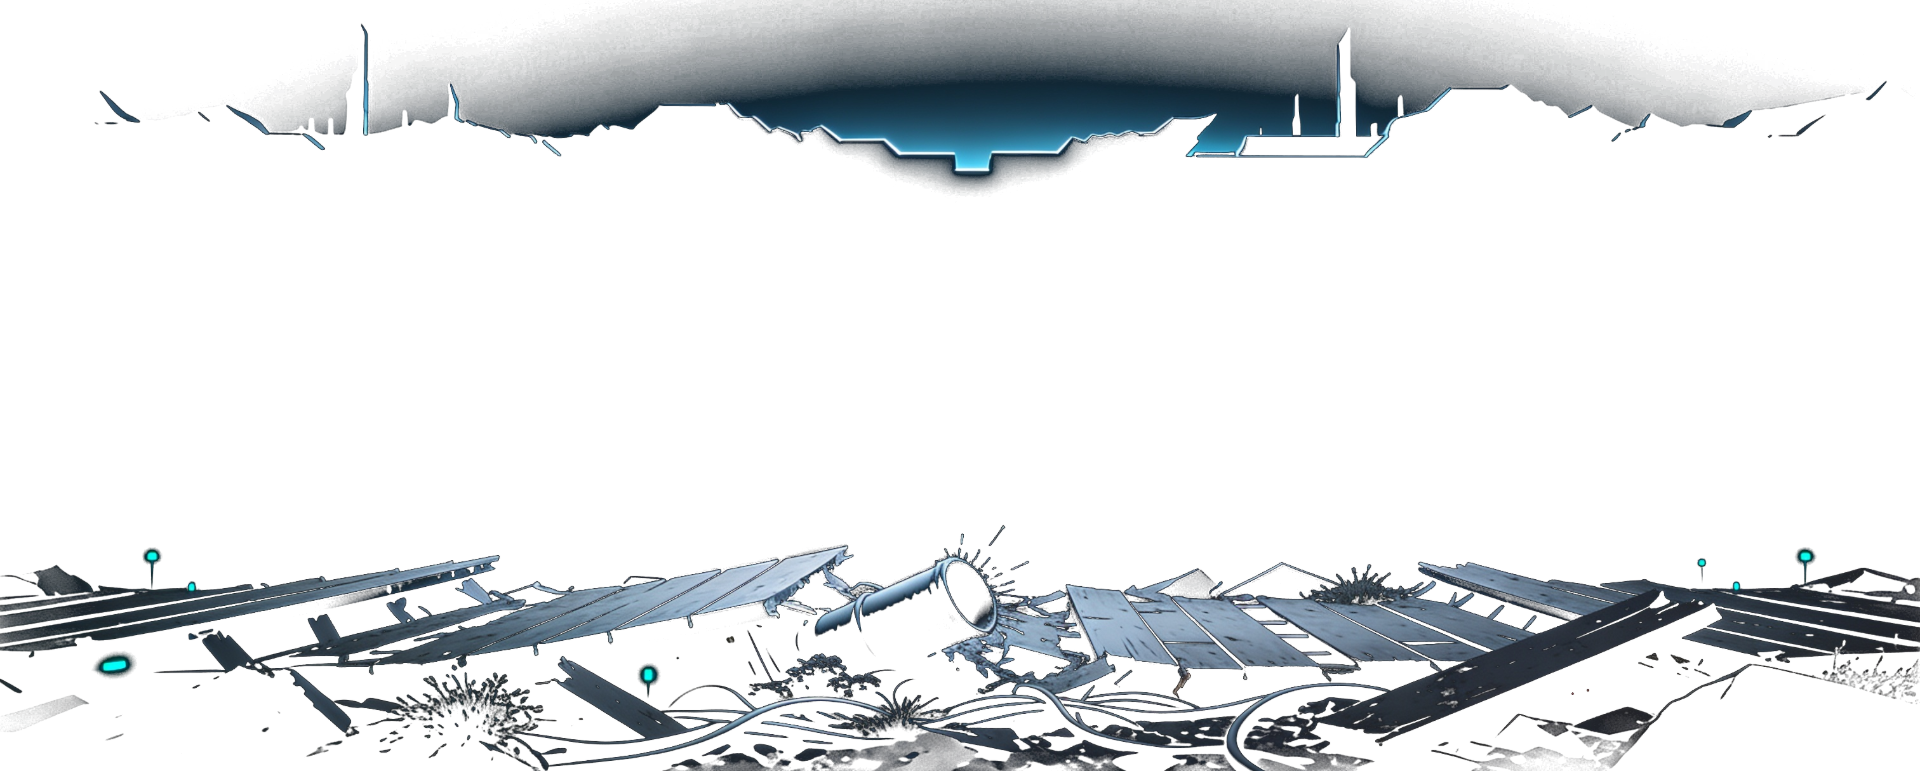
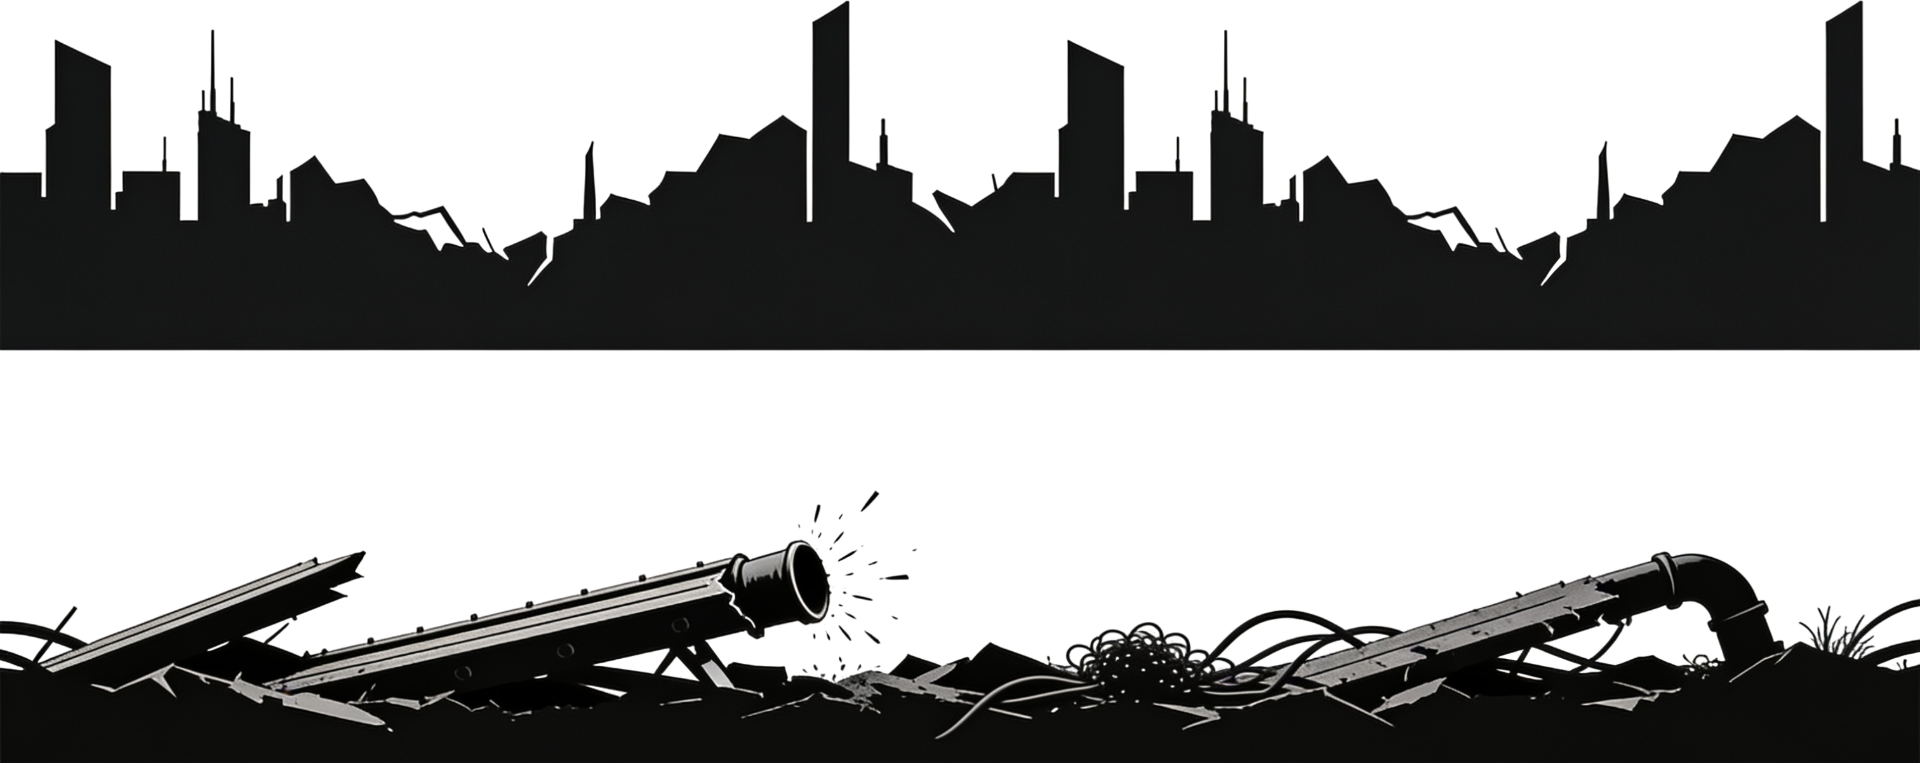
The blue: a foreground silhouette reduced to its own indicator lights
The owner asked what the blue was. It was the near depth plate, and the fault
was in my brief rather than in the art.

I asked for a NEAR-BLACK silhouette on a BLACK field, then keyed it by
LUMINANCE. A near-black subject on a black ground cannot be luminance-keyed —
subject and field are the same value — so the keyer deleted the body and kept
only the brightest fragments. Measured on the old fore_a.png: the source is 100%
opaque at mean luminance 5; after keying 18.8% survived at mean luminance 23.8,
of which 45.8% was bluish. What reached the screen was the plate's cyan pips
with nothing holding them, floating under the floor.

All six near plates are re-fired on a WHITE field with the contrast requirement
as the first line of the prompt and glowing details explicitly forbidden. They
now key correctly: 29-51% opaque at mean luminance 2.5-14.7, bright pixels down
from 45.8% to 1.9-14.2%.

Diagnosis before deletion, as always: suppressing drawDepthPlane and re-shooting
the same room removed the blue entirely and left one organic floor, which is
what named the culprit. The grass was checked in the same pass and is innocent —
it is the fringe, and it already follows the drawn silhouette rather than a flat
line, so there was no second grass layer to delete.

regress, tutor, climbout, cover, combat, grammar and platform all pass.

Claude-Session: https://claude.ai/code/session_011hKtSHdTMEFtEPt4TTsASV

diff --git a/index.html b/index.html
@@ -225,7 +225,7 @@
 })();
 </script>
 
-<script>window.BUILD_ID="msz2besz";window.GAME_LOCK="robo";window.MUS_FILES={"ambient_observing_the_star":"assets/music/ambient_observing_the_star.ogg","epic_combat":"assets/music/epic_combat.ogg","mus_alpha":"assets/music/mus_alpha.m4a","mus_alphatame":"assets/music/mus_alphatame.m4a","mus_archives":"assets/music/mus_archives.m4a","mus_boss":"assets/music/mus_boss.m4a","mus_cache":"assets/music/mus_cache.m4a","mus_conduits":"assets/music/mus_conduits.m4a","mus_ending":"assets/music/mus_ending.m4a","mus_eye":"assets/music/mus_eye.m4a","mus_foundry":"assets/music/mus_foundry.m4a","mus_furnace":"assets/music/mus_furnace.m4a","mus_glaciere":"assets/music/mus_glaciere.m4a","mus_intro":"assets/music/mus_intro.m4a","mus_meadows":"assets/music/mus_meadows.m4a","mus_mother":"assets/music/mus_mother.m4a","mus_nest":"assets/music/mus_nest.m4a","mus_nullfang":"assets/music/mus_nullfang.m4a","mus_prism":"assets/music/mus_prism.m4a","mus_talonhost":"assets/music/mus_talonhost.m4a","mus_title":"assets/music/mus_title.m4a"};window.VID_FILES={"end_atlas":"assets/video/end_atlas.mp4","end_brood":"assets/video/end_brood.mp4","end_close":"assets/video/end_close.mp4","end_folk":"assets/video/end_folk.mp4","end_glitch":"assets/video/end_glitch.mp4","end_mother":"assets/video/end_mother.mp4","end_open":"assets/video/end_open.mp4","end_prism":"assets/video/end_prism.mp4","end_zero":"assets/video/end_zero.mp4","intro1":"assets/video/intro1.mp4","intro2":"assets/video/intro2.mp4","intro3":"assets/video/intro3.mp4","intro4":"assets/video/intro4.mp4","intro5":"assets/video/intro5.mp4","intro6":"assets/video/intro6.mp4","intro7":"assets/video/intro7.mp4","intro8":"assets/video/intro8.mp4","purify_atlas":"assets/video/purify_atlas.mp4","purify_brood":"assets/video/purify_brood.mp4","purify_glitch":"assets/video/purify_glitch.mp4","purify_prism":"assets/video/purify_prism.mp4","purify_zero":"assets/video/purify_zero.mp4","sword_forge":"assets/video/sword_forge.mp4","sword_gift":"assets/video/sword_gift.mp4"};window.VID_ALT={"end_atlas":"assets/video/end_atlas.webm","end_brood":"assets/video/end_brood.webm","end_close":"assets/video/end_close.webm","end_folk":"assets/video/end_folk.webm","end_glitch":"assets/video/end_glitch.webm","end_mother":"assets/video/end_mother.webm","end_open":"assets/video/end_open.webm","end_prism":"assets/video/end_prism.webm","end_zero":"assets/video/end_zero.webm","intro1":"assets/video/intro1.webm","intro2":"assets/video/intro2.webm","intro3":"assets/video/intro3.webm","intro4":"assets/video/intro4.webm","intro5":"assets/video/intro5.webm","intro6":"assets/video/intro6.webm","intro7":"assets/video/intro7.webm","intro8":"assets/video/intro8.webm","purify_atlas":"assets/video/purify_atlas.webm","purify_brood":"assets/video/purify_brood.webm","purify_glitch":"assets/video/purify_glitch.webm","purify_prism":"assets/video/purify_prism.webm","purify_zero":"assets/video/purify_zero.webm","sword_forge":"assets/video/sword_forge.webm","sword_gift":"assets/video/sword_gift.webm"};window.VID_LIGHT={
+<script>window.BUILD_ID="msz3evco";window.GAME_LOCK="robo";window.MUS_FILES={"ambient_observing_the_star":"assets/music/ambient_observing_the_star.ogg","epic_combat":"assets/music/epic_combat.ogg","mus_alpha":"assets/music/mus_alpha.m4a","mus_alphatame":"assets/music/mus_alphatame.m4a","mus_archives":"assets/music/mus_archives.m4a","mus_boss":"assets/music/mus_boss.m4a","mus_cache":"assets/music/mus_cache.m4a","mus_conduits":"assets/music/mus_conduits.m4a","mus_ending":"assets/music/mus_ending.m4a","mus_eye":"assets/music/mus_eye.m4a","mus_foundry":"assets/music/mus_foundry.m4a","mus_furnace":"assets/music/mus_furnace.m4a","mus_glaciere":"assets/music/mus_glaciere.m4a","mus_intro":"assets/music/mus_intro.m4a","mus_meadows":"assets/music/mus_meadows.m4a","mus_mother":"assets/music/mus_mother.m4a","mus_nest":"assets/music/mus_nest.m4a","mus_nullfang":"assets/music/mus_nullfang.m4a","mus_prism":"assets/music/mus_prism.m4a","mus_talonhost":"assets/music/mus_talonhost.m4a","mus_title":"assets/music/mus_title.m4a"};window.VID_FILES={"end_atlas":"assets/video/end_atlas.mp4","end_brood":"assets/video/end_brood.mp4","end_close":"assets/video/end_close.mp4","end_folk":"assets/video/end_folk.mp4","end_glitch":"assets/video/end_glitch.mp4","end_mother":"assets/video/end_mother.mp4","end_open":"assets/video/end_open.mp4","end_prism":"assets/video/end_prism.mp4","end_zero":"assets/video/end_zero.mp4","intro1":"assets/video/intro1.mp4","intro2":"assets/video/intro2.mp4","intro3":"assets/video/intro3.mp4","intro4":"assets/video/intro4.mp4","intro5":"assets/video/intro5.mp4","intro6":"assets/video/intro6.mp4","intro7":"assets/video/intro7.mp4","intro8":"assets/video/intro8.mp4","purify_atlas":"assets/video/purify_atlas.mp4","purify_brood":"assets/video/purify_brood.mp4","purify_glitch":"assets/video/purify_glitch.mp4","purify_prism":"assets/video/purify_prism.mp4","purify_zero":"assets/video/purify_zero.mp4","sword_forge":"assets/video/sword_forge.mp4","sword_gift":"assets/video/sword_gift.mp4"};window.VID_ALT={"end_atlas":"assets/video/end_atlas.webm","end_brood":"assets/video/end_brood.webm","end_close":"assets/video/end_close.webm","end_folk":"assets/video/end_folk.webm","end_glitch":"assets/video/end_glitch.webm","end_mother":"assets/video/end_mother.webm","end_open":"assets/video/end_open.webm","end_prism":"assets/video/end_prism.webm","end_zero":"assets/video/end_zero.webm","intro1":"assets/video/intro1.webm","intro2":"assets/video/intro2.webm","intro3":"assets/video/intro3.webm","intro4":"assets/video/intro4.webm","intro5":"assets/video/intro5.webm","intro6":"assets/video/intro6.webm","intro7":"assets/video/intro7.webm","intro8":"assets/video/intro8.webm","purify_atlas":"assets/video/purify_atlas.webm","purify_brood":"assets/video/purify_brood.webm","purify_glitch":"assets/video/purify_glitch.webm","purify_prism":"assets/video/purify_prism.webm","purify_zero":"assets/video/purify_zero.webm","sword_forge":"assets/video/sword_forge.webm","sword_gift":"assets/video/sword_gift.webm"};window.VID_LIGHT={
  "end_atlas": "assets/video/light/end_atlas.mp4",
  "end_brood": "assets/video/light/end_brood.mp4",
  "end_close": "assets/video/light/end_close.mp4",
@@ -32684,7 +32684,20 @@ function drawWorldFrame() {
   }
   drawSeals(P);
   c.restore();
-  drawDepthPlane('fore');            // ...and the near plane, in front of her
+  // THE NEAR PLATE IS OFF UNTIL IT IS RE-FIRED, and the reason is a mistake in
+  // my own brief: it asked for a NEAR-BLACK silhouette on a BLACK field, and
+  // then the keyer cut it by luminance. A near-black subject on a black ground
+  // cannot be luminance-keyed — subject and field are the same value. Measured
+  // on fore_a.png: the source is 100% opaque at mean luminance 5, and after
+  // keying only 18.8% survived at mean luminance 23.8, of which 45.8% is
+  // bluish. The keyer deleted the body and kept the indicator lights. That is
+  // the floating blue the owner asked about — a foreground layer reduced to its
+  // own light-pips.
+  // Re-fired on a WHITE field so a near-black silhouette can actually be cut
+  // from it: 29-51% of each plate now survives the key at mean luminance
+  // 2.5-14.7, against 18.8% at luminance 23.8 before, of which nearly half was
+  // the blue pips.
+  drawDepthPlane('fore');
   applyBloom();
   // ---- cinematic grade: zone-tinted light wash + vignette (the "expensive" look) ----
   {

diff --git a/odyssey.html b/odyssey.html
@@ -225,7 +225,7 @@
 })();
 </script>
 
-<script>window.BUILD_ID="msz2besz";window.GAME_LOCK="hero";window.MUS_FILES={"ambient_observing_the_star":"assets/music/ambient_observing_the_star.ogg","epic_combat":"assets/music/epic_combat.ogg","mus_alpha":"assets/music/mus_alpha.m4a","mus_alphatame":"assets/music/mus_alphatame.m4a","mus_archives":"assets/music/mus_archives.m4a","mus_boss":"assets/music/mus_boss.m4a","mus_cache":"assets/music/mus_cache.m4a","mus_conduits":"assets/music/mus_conduits.m4a","mus_ending":"assets/music/mus_ending.m4a","mus_eye":"assets/music/mus_eye.m4a","mus_foundry":"assets/music/mus_foundry.m4a","mus_furnace":"assets/music/mus_furnace.m4a","mus_glaciere":"assets/music/mus_glaciere.m4a","mus_intro":"assets/music/mus_intro.m4a","mus_meadows":"assets/music/mus_meadows.m4a","mus_mother":"assets/music/mus_mother.m4a","mus_nest":"assets/music/mus_nest.m4a","mus_nullfang":"assets/music/mus_nullfang.m4a","mus_prism":"assets/music/mus_prism.m4a","mus_talonhost":"assets/music/mus_talonhost.m4a","mus_title":"assets/music/mus_title.m4a"};window.VID_FILES={"end_atlas":"assets/video/end_atlas.mp4","end_brood":"assets/video/end_brood.mp4","end_close":"assets/video/end_close.mp4","end_folk":"assets/video/end_folk.mp4","end_glitch":"assets/video/end_glitch.mp4","end_mother":"assets/video/end_mother.mp4","end_open":"assets/video/end_open.mp4","end_prism":"assets/video/end_prism.mp4","end_zero":"assets/video/end_zero.mp4","intro1":"assets/video/intro1.mp4","intro2":"assets/video/intro2.mp4","intro3":"assets/video/intro3.mp4","intro4":"assets/video/intro4.mp4","intro5":"assets/video/intro5.mp4","intro6":"assets/video/intro6.mp4","intro7":"assets/video/intro7.mp4","intro8":"assets/video/intro8.mp4","purify_atlas":"assets/video/purify_atlas.mp4","purify_brood":"assets/video/purify_brood.mp4","purify_glitch":"assets/video/purify_glitch.mp4","purify_prism":"assets/video/purify_prism.mp4","purify_zero":"assets/video/purify_zero.mp4","sword_forge":"assets/video/sword_forge.mp4","sword_gift":"assets/video/sword_gift.mp4"};window.VID_ALT={"end_atlas":"assets/video/end_atlas.webm","end_brood":"assets/video/end_brood.webm","end_close":"assets/video/end_close.webm","end_folk":"assets/video/end_folk.webm","end_glitch":"assets/video/end_glitch.webm","end_mother":"assets/video/end_mother.webm","end_open":"assets/video/end_open.webm","end_prism":"assets/video/end_prism.webm","end_zero":"assets/video/end_zero.webm","intro1":"assets/video/intro1.webm","intro2":"assets/video/intro2.webm","intro3":"assets/video/intro3.webm","intro4":"assets/video/intro4.webm","intro5":"assets/video/intro5.webm","intro6":"assets/video/intro6.webm","intro7":"assets/video/intro7.webm","intro8":"assets/video/intro8.webm","purify_atlas":"assets/video/purify_atlas.webm","purify_brood":"assets/video/purify_brood.webm","purify_glitch":"assets/video/purify_glitch.webm","purify_prism":"assets/video/purify_prism.webm","purify_zero":"assets/video/purify_zero.webm","sword_forge":"assets/video/sword_forge.webm","sword_gift":"assets/video/sword_gift.webm"};window.VID_LIGHT={
+<script>window.BUILD_ID="msz3evco";window.GAME_LOCK="hero";window.MUS_FILES={"ambient_observing_the_star":"assets/music/ambient_observing_the_star.ogg","epic_combat":"assets/music/epic_combat.ogg","mus_alpha":"assets/music/mus_alpha.m4a","mus_alphatame":"assets/music/mus_alphatame.m4a","mus_archives":"assets/music/mus_archives.m4a","mus_boss":"assets/music/mus_boss.m4a","mus_cache":"assets/music/mus_cache.m4a","mus_conduits":"assets/music/mus_conduits.m4a","mus_ending":"assets/music/mus_ending.m4a","mus_eye":"assets/music/mus_eye.m4a","mus_foundry":"assets/music/mus_foundry.m4a","mus_furnace":"assets/music/mus_furnace.m4a","mus_glaciere":"assets/music/mus_glaciere.m4a","mus_intro":"assets/music/mus_intro.m4a","mus_meadows":"assets/music/mus_meadows.m4a","mus_mother":"assets/music/mus_mother.m4a","mus_nest":"assets/music/mus_nest.m4a","mus_nullfang":"assets/music/mus_nullfang.m4a","mus_prism":"assets/music/mus_prism.m4a","mus_talonhost":"assets/music/mus_talonhost.m4a","mus_title":"assets/music/mus_title.m4a"};window.VID_FILES={"end_atlas":"assets/video/end_atlas.mp4","end_brood":"assets/video/end_brood.mp4","end_close":"assets/video/end_close.mp4","end_folk":"assets/video/end_folk.mp4","end_glitch":"assets/video/end_glitch.mp4","end_mother":"assets/video/end_mother.mp4","end_open":"assets/video/end_open.mp4","end_prism":"assets/video/end_prism.mp4","end_zero":"assets/video/end_zero.mp4","intro1":"assets/video/intro1.mp4","intro2":"assets/video/intro2.mp4","intro3":"assets/video/intro3.mp4","intro4":"assets/video/intro4.mp4","intro5":"assets/video/intro5.mp4","intro6":"assets/video/intro6.mp4","intro7":"assets/video/intro7.mp4","intro8":"assets/video/intro8.mp4","purify_atlas":"assets/video/purify_atlas.mp4","purify_brood":"assets/video/purify_brood.mp4","purify_glitch":"assets/video/purify_glitch.mp4","purify_prism":"assets/video/purify_prism.mp4","purify_zero":"assets/video/purify_zero.mp4","sword_forge":"assets/video/sword_forge.mp4","sword_gift":"assets/video/sword_gift.mp4"};window.VID_ALT={"end_atlas":"assets/video/end_atlas.webm","end_brood":"assets/video/end_brood.webm","end_close":"assets/video/end_close.webm","end_folk":"assets/video/end_folk.webm","end_glitch":"assets/video/end_glitch.webm","end_mother":"assets/video/end_mother.webm","end_open":"assets/video/end_open.webm","end_prism":"assets/video/end_prism.webm","end_zero":"assets/video/end_zero.webm","intro1":"assets/video/intro1.webm","intro2":"assets/video/intro2.webm","intro3":"assets/video/intro3.webm","intro4":"assets/video/intro4.webm","intro5":"assets/video/intro5.webm","intro6":"assets/video/intro6.webm","intro7":"assets/video/intro7.webm","intro8":"assets/video/intro8.webm","purify_atlas":"assets/video/purify_atlas.webm","purify_brood":"assets/video/purify_brood.webm","purify_glitch":"assets/video/purify_glitch.webm","purify_prism":"assets/video/purify_prism.webm","purify_zero":"assets/video/purify_zero.webm","sword_forge":"assets/video/sword_forge.webm","sword_gift":"assets/video/sword_gift.webm"};window.VID_LIGHT={
  "end_atlas": "assets/video/light/end_atlas.mp4",
  "end_brood": "assets/video/light/end_brood.mp4",
  "end_close": "assets/video/light/end_close.mp4",
@@ -32684,7 +32684,20 @@ function drawWorldFrame() {
   }
   drawSeals(P);
   c.restore();
-  drawDepthPlane('fore');            // ...and the near plane, in front of her
+  // THE NEAR PLATE IS OFF UNTIL IT IS RE-FIRED, and the reason is a mistake in
+  // my own brief: it asked for a NEAR-BLACK silhouette on a BLACK field, and
+  // then the keyer cut it by luminance. A near-black subject on a black ground
+  // cannot be luminance-keyed — subject and field are the same value. Measured
+  // on fore_a.png: the source is 100% opaque at mean luminance 5, and after
+  // keying only 18.8% survived at mean luminance 23.8, of which 45.8% is
+  // bluish. The keyer deleted the body and kept the indicator lights. That is
+  // the floating blue the owner asked about — a foreground layer reduced to its
+  // own light-pips.
+  // Re-fired on a WHITE field so a near-black silhouette can actually be cut
+  // from it: 29-51% of each plate now survives the key at mean luminance
+  // 2.5-14.7, against 18.8% at luminance 23.8 before, of which nearly half was
+  // the blue pips.
+  drawDepthPlane('fore');
   applyBloom();
   // ---- cinematic grade: zone-tinted light wash + vignette (the "expensive" look) ----
   {

diff --git a/js/game.js b/js/game.js
@@ -9141,7 +9141,20 @@ function drawWorldFrame() {
   }
   drawSeals(P);
   c.restore();
-  drawDepthPlane('fore');            // ...and the near plane, in front of her
+  // THE NEAR PLATE IS OFF UNTIL IT IS RE-FIRED, and the reason is a mistake in
+  // my own brief: it asked for a NEAR-BLACK silhouette on a BLACK field, and
+  // then the keyer cut it by luminance. A near-black subject on a black ground
+  // cannot be luminance-keyed — subject and field are the same value. Measured
+  // on fore_a.png: the source is 100% opaque at mean luminance 5, and after
+  // keying only 18.8% survived at mean luminance 23.8, of which 45.8% is
+  // bluish. The keyer deleted the body and kept the indicator lights. That is
+  // the floating blue the owner asked about — a foreground layer reduced to its
+  // own light-pips.
+  // Re-fired on a WHITE field so a near-black silhouette can actually be cut
+  // from it: 29-51% of each plate now survives the key at mean luminance
+  // 2.5-14.7, against 18.8% at luminance 23.8 before, of which nearly half was
+  // the blue pips.
+  drawDepthPlane('fore');
   applyBloom();
   // ---- cinematic grade: zone-tinted light wash + vignette (the "expensive" look) ----
   {
